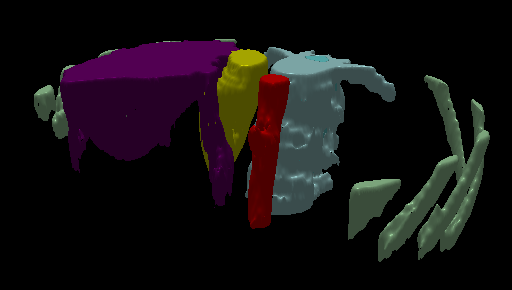
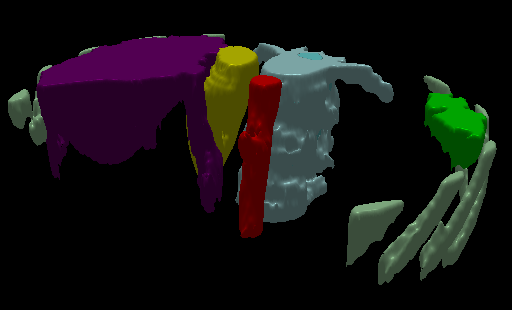
Sorted out a diagram in the introduction, and started writing the conclusion.
git-svn-id: svn://edison.comlab.ox.ac.uk/res07/stug/thesis@482 3591cd54-c1f5-49d0-bbe8-c111502d3865

Changed region(s): [[0.0, 0.0931, 0.9688, 0.931]]

diff --git a/introduction/introduction.tex b/introduction/introduction.tex
@@ -23,7 +23,7 @@ Given the relevance of the abdominal CT segmentation and feature identification 
 \stufigex{height=6cm}{introduction/introduction-shimizu.png}{An example output of the fully-automatic technique to identify abdominal organs described in \cite{shimizu07} (extracted from Figure 8 of that paper). Twelve features have been identified: the aorta (pink), gallbladder (light green), heart (yellow), inferior vena cava (red), left kidney (light orange), liver (maroon), oesophagus (purple), pancreas (green), portal vein (light blue), right kidney (orange), spleen (white) and stomach (blue).}{fig:introduction-shimizu}{t}
 %---
 
-Despite the evident successes of some current fully-automatic approaches, however, it remains the case that whilst medics may not necessarily want to be forced to interact substantively with a segmentation and feature identification application in its initial stages, they are generally keen to retain the ability to carefully examine and edit its output. For that reason, my own approach described in this thesis has focused not primarily on the fully-automatic identification of abdominal features (although I have done some work in that direction, as will be described in Chapter~\ref{chap:featureid}), but on a good way of facilitating user editing of automatically-generated segmentation and feature identification results.
+Despite the evident successes of some current fully-automatic approaches, however, it remains the case that whilst medics may not necessarily want to be forced to interact substantively with a segmentation and feature identification application in its initial stages, they are generally keen to retain the ability to carefully examine and edit its output. For that reason, my own approach described in this thesis has focused not just on the fully-automatic identification of abdominal features (although I have done a significant amount of work in that direction, as will be described in Chapter~\ref{chap:featureid}), but also on a good way of facilitating user editing of automatically-generated segmentation and feature identification results.
 
 My approach is based around the idea of representing images using a hierarchical data structure known as a partition forest (or an \emph{image partition forest}, in this context). Partition forests, described more fully in Chapters~\ref{chap:background} and \ref{chap:ipfs}, are in essence a set of hierarchical partitions of the same object (e.g.~an image). Together with partition \emph{trees}, to which they are closely related, they have appeared extensively in the image analysis literature (see \S\ref{sec:background-partitionhierarchies}). However, it is noticeable that despite their seeing widespread use as an image representation technique, surprisingly little work has been done on how to allow partition forests to be easily edited by the user; one notable exception is \cite{nacken95}, in which Peter Nacken describes a constrained parent switching operation for a partition forest-type data structure (I describe a less constrained version of the same operation in Chapter~\ref{chap:ipfs}). In more recent work, Klava et al.~\cite{klava09} take an interesting approach that allows partitions to be viewed as if sibling nodes in the partition forest had been split or merged, via a scheme of defining a non-horizontal cut across the partition forest structure; however, the results obtained using their split and merge operations are fundamentally limited by the underlying forest structure, which they do not change. One of the contributions made by this thesis (in Chapter~\ref{chap:ipfs}) is to fill this gap by defining a hierarchy of undoable operations that can be used to mutate partition forests and showing how they can be integrated into an easy-to-use graphical user interface (GUI). It will be demonstrated that the core operations at the lowest level of this hierarchy are minimally-sufficient for partition forest editing: that is, a finite sequence of them can be used to mutate any partition forest of an object into any other partition forest of the same object.
 
@@ -77,7 +77,7 @@ The original contributions made by this thesis, then, are as follows:
 %---
 
 %---
-\stufigex{height=6cm}{introduction/introduction-millipede-vis.png}{Visualizing the results of the automatic feature identification techniques in \emph{millipede} as a Phong-lit 3D mesh. Six features are visible: the aorta (red), right kidney (yellow), liver (purple), ribs (pale green), spine (pale blue) and spinal canal (slightly darker blue).}{fig:introduction-millipede-vis}{t}
+\stufigex{height=6cm}{introduction/introduction-millipede-vis.png}{Visualizing the results of the automatic feature identification techniques in \emph{millipede} as a Phong-lit 3D mesh. Seven features are visible: the aorta (red), right kidney (yellow), liver (purple), ribs (pale green), spine (pale blue), spinal canal (slightly darker blue) and spleen (green).}{fig:introduction-millipede-vis}{t}
 %---
 
 %---

diff --git a/conclusions/conclusions.tex b/conclusions/conclusions.tex
@@ -4,7 +4,9 @@
 %---
 \section{Concluding Remarks}
 
-TODO
+This thesis has demonstrated the effectiveness of partition forests as an editable image representation for segmentation and multi-organ identification in computerised tomography (CT) scans of the abdomen. Despite obtaining promising results, existing multi-organ identification techniques, such as those of Campadelli et al.\ \cite{campadelli09} and Shimizu et al.\ \cite{shimizu07}, have as yet focused only on identifying the organs as automatically as possible, whilst not providing the user with an ability to edit the results produced. In my view, such an ability remains important when the treatment of real people is involved, because unless organ identification techniques become $100\%$ accurate in the future (a somewhat unlikely prospect), medics will always need to confirm that a segmentation is accurate and edit it where it is not.
+
+The approach I have proposed in this thesis is designed with this in mind; the aim has been to develop a system that can produce good multi-organ identification results whilst still making it easy for the user to manipulate the output. Partition forests are a useful data structure for both purposes -- by representing an image hierarchically, they not only make it easier to design feature identification algorithms that work at a higher level than the raw pixels, they also allow the end result to be represented in a way that is efficient and easy for the user to edit. To support this intended usage, I developed a set of partition forest editing algorithms in Chapter~\ref{chap:ipfs}, together with selection and multi-feature selection data structures to represent the identified features.
 
 %---
 \section{Further Work}
